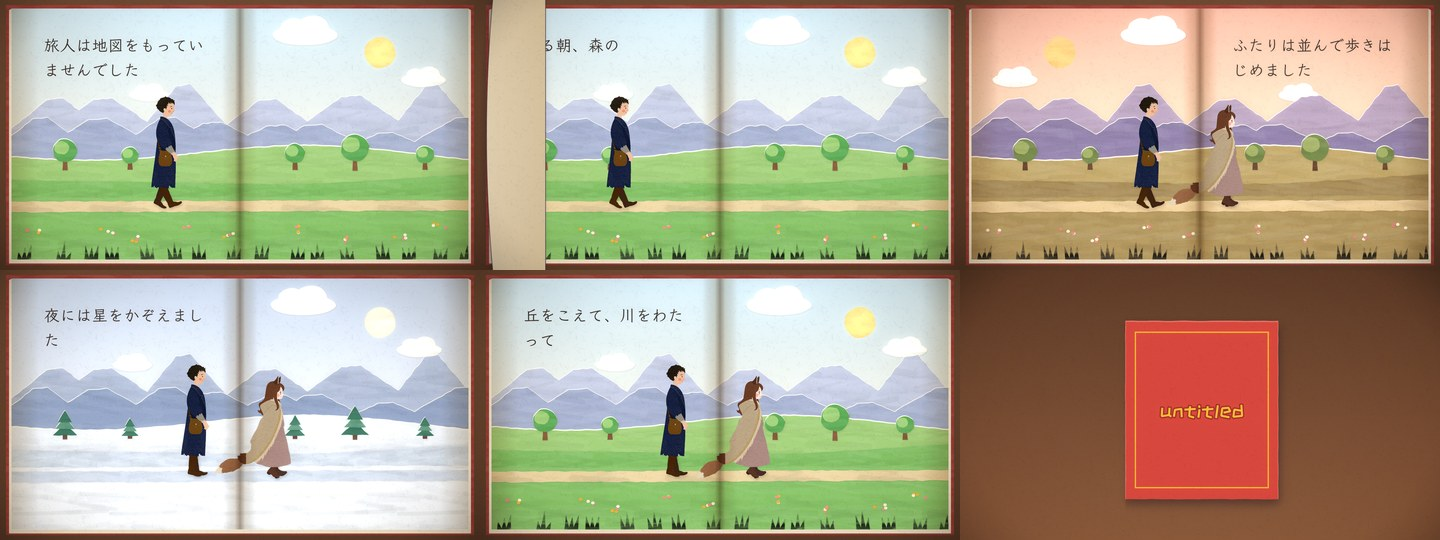
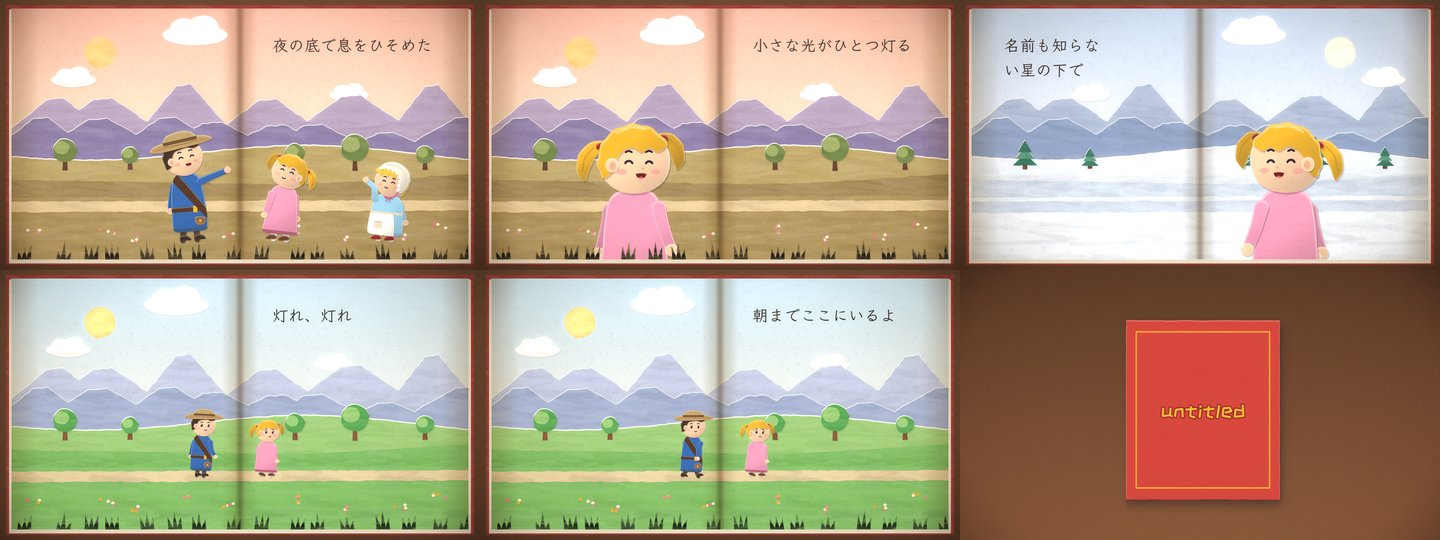
papercraft starter: folk-rig cast, shot size and action change line by line
The starter cast is the folk rig (PC.story.folk looks) instead of PC.doll
stand-ins, and its spreads rotate wide (walking), medium (the pair stop and act,
a townsperson steps in) and close (one face reacts), so a first cut no longer
teaches "two figures walking" for every line. look.jpg re-rendered from the demo
song; STYLE §1 example uses the folk-rig scale.

diff --git a/mv-studio/template/engine/starters/papercraft.js b/mv-studio/template/engine/starters/papercraft.js
@@ -4,9 +4,10 @@
  * spread, and the pages turn between spreads.
  *
  * This starter builds a plain first cut from the song's sections and lyric lines so a new project renders at once:
- * the book opens -> one spread per lyric line, a new land and a page turn per section, the travellers crossing left to
- * right -> the book closes. It is scaffolding: cut YOUR cast from generated reference sheets (tools/cut_puppet.py;
- * until then the roles draw as flat PC.doll stand-ins), and design the story's pages from your shot list.
+ * the book opens -> one spread per lyric line, a new land and a page turn per section, the shot size changing line by
+ * line (wide: the travellers walk; medium: they stop and act, a townsperson steps in; close: a face reacts) -> the
+ * book closes. It is scaffolding: give the roles YOUR looks (PC.story.folk, STYLE.md §2), and replace every spread with
+ * the concrete event its line names (a prop handed over, something appearing; BRIEF §1.7), from your shot list.
  * Lyric text never appears here: lines by index only.
  */
 (() => {
@@ -16,10 +17,13 @@
   Z.TITLE_SUB = '';
   Z.ARTIST = '';
   Z.CREDIT = '';
-  // the cast: roles cut into assets/cast/ by tools/cut_puppet.py; LOOK is the PC.doll stand-in until they are (REPLACE)
-  const LOOK = { hero: { hairStyle: 'mop', hair: '#4A3428', outfit: P.blue, seed: 3 }, companion: { hairStyle: 'braid', hair: P.gold, outfit: P.pink, seed: 5 } };
+  // the cast: the folk rig, one look per role (REPLACE with the film's own; s 1 ~ 186 px); extras are townsfolk variants
+  PC.story.folk.hero = { seed: 3, look: { H: 186, bw: 31, body: P.blue, sleeve: P.blue, trim: '#3f5f86', hair: 'short', hairC: '#4A3428',
+    hat: 'straw', hatC: '#c9a46a', hat2: '#7a5a3a', acc: ['belt', 'satchel'], bag: '#a8784a', strap: '#5a3d2b', legs: '#5a4636', shoes: '#4a3428', skin: 'light' } };
+  PC.story.folk.companion = { seed: 5, look: { H: 164, bw: 30, flare: 1.16, body: P.pink, sleeve: P.pink, trim: '#b8607a', hair: 'pigtails',
+    hairC: P.gold, lashes: true, legs: '#f2e8d8', shoes: '#7a4a32', skin: 'light' } };
   const LANDS = ['meadow', 'dusk', 'snow', 'meadow'];
-  const SC = 0.7, STRIDE = 127 * SC / 0.5, V = 110;              // puppet scale, px per walk cycle, walking speed px/s
+  const WIDE = 1.35, MED = 2.2, CLOSE = 4.2, MY = 960, CY = 1190, V = 110;  // shot sizes (cast s), feet y medium / close, walking px/s
 
   Z.setup = async (audio) => {
     const nb = t => audio.beats.reduce((b, x) => (Math.abs(x - t) < Math.abs(b - t) ? x : b), audio.beats[0] ?? t);
@@ -32,8 +36,17 @@
 
     const S = [], END = audio.music_cut || audio.duration, L = Z.LYR, beat = 60 / (audio.bpm || 120);
     const shot = (id, t0, t1, scene, args, extra = {}) => { if (t1 > t0 + 0.05) S.push(Object.assign({ id, t0, t1, scene, args, lyric: 'none', hud: false, post: PC.post }, extra)); };
-    // the travellers cross the spread at walking pace, centred on it; the first role leads on the left
-    const walkers = (who, t0, t1) => S => who.map((w, k) => { const x = 960 - V * (t1 - t0) / 2 - 150 + k * 320 + V * (S.t - t0); return { who: w, x, face: 1, walk: 1, phase: x / STRIDE, s: SC, look: LOOK[w] }; });
+    // wide: the travellers cross the spread at walking pace, centred on it (the rig plants the feet from x)
+    const walkers = (who, t0, t1) => S => who.map((w, k) => ({ who: w, x: 960 - V * (t1 - t0) / 2 - 150 + k * 260 + V * (S.t - t0), face: 1, walk: 1, s: WIDE }));
+    // medium: they stop and act; a townsperson steps in from the right halfway (REPLACE: the line's own exchange)
+    const meeting = (who, t0, t1, si) => S => {
+      const k = Math.min(1, Math.max(0, (S.t - (t0 + t1) / 2) / 0.8)), c = [{ who: who[0], x: 760, y: MY, s: MED, face: 1, pose: 'point', expr: k ? 'happy' : 'curious' }];
+      if (who[1]) c.push({ who: who[1], x: 1120, y: MY, s: MED * 0.95, face: -1, pose: 'lookUp', expr: 'smile' });
+      if (k > 0) c.push({ folk: { variant: si % 12, seed: 20 + si }, x: 2100 - 560 * k, y: MY, s: MED * 0.9, face: -1, walk: k < 1 ? 1 : 0, pose: k < 1 ? 'walk' : 'wave', expr: 'smile' });
+      return c;
+    };
+    // close: one face fills the page away from the text and reacts on the second half of the line (REPLACE)
+    const closeUp = (w, t0, t1, textAt) => S => [{ who: w, x: textAt === 'L' ? 1300 : 620, y: CY, s: CLOSE, face: textAt === 'L' ? -1 : 1, pose: 'idle', expr: S.t < (t0 + t1) / 2 ? 'calm' : 'happy' }];
     const first = secs.length ? secs[0].start : 0, l0 = L.length ? nb(L[0].t - 0.05) : END, o0 = Math.min(l0, first > 0.5 ? first : l0);
     const open = o0 < 1.5 ? 0 : o0;                                             // singing from the first second: no time to open the book, start inside it
 
@@ -48,9 +61,10 @@
       cuts.forEach((c0, j) => {
         // a section that starts mid-line carries the line still being sung, not the next one (sung from the next cut)
         const c1 = cuts[j + 1] ?? b, line = ls.find(l => Math.abs(nb(l.t - 0.05) - c0) < 0.01) || (j ? ls[j] : L.find(l => l.t < c0 && l.end > c0 + 0.1)), li = line ? line.i : null;
-        shot(`s${++k}`, c0, c1, 'pcStory', { land, line: li, textAt, cast: walkers(who, c0, c1) }, {
+        const size = (j + si) % 3, cast = size === 0 ? walkers(who, c0, c1) : size === 1 ? meeting(who, c0, c1, si) : closeUp(who[who.length - 1], c0, c1, textAt);
+        shot(`s${++k}`, c0, c1, 'pcStory', { land, line: li, textAt, cast }, {
           line: li ?? undefined, trans: { type: 'pageTurn', dur: (j ? 1 : 2) * beat },
-          moment: line ? `line ${line.i}: a page of the story in the ${land} (REPLACE: what happens on this page)` : `${sec.label || 'section'}: the ${land}`,
+          moment: line ? `line ${line.i}: ${['wide', 'medium', 'close'][size]} in the ${land} (REPLACE: the event this line names)` : `${sec.label || 'section'}: the ${land}`,
         });
       });
     });

diff --git a/mv-studio/styles/papercraft/STYLE.md b/mv-studio/styles/papercraft/STYLE.md
@@ -12,8 +12,8 @@ story are not ours: make your own film.
 ## 1. The spread: `pcStory`
 
 ```js
-const SC = 0.7, STRIDE = 127 * SC / 0.5;                         // puppet scale; px per walk cycle (feet do not slide)
-const walker = (who, x0, v, t0) => S => { const x = x0 + (S.t - t0) * v; return { who, x, face: 1, walk: 1, phase: x / STRIDE, s: SC }; };
+const WIDE = 1.35;                                               // folk-rig scale: s 1 ~ 186 px (§2)
+const walker = (who, x0, v, t0) => S => ({ who, x: x0 + (S.t - t0) * v, face: 1, walk: 1, s: WIDE });  // the rig plants the feet from x
 S.push({ id: 'v03', t0: B(6), t1: B(8), scene: 'pcStory', lyric: 'none', hud: false, line: 3, post: PC.post,
   trans: { type: 'pageTurn', dur: 2 * beat },
   moment: 'line 3: the two of them reach the market town',
@@ -74,7 +74,7 @@ ink line and pins of `PC.doll`; without it the doll is the flat stand-in.
 4. Until a role is cut, `pcStory` draws a flat `PC.doll` stand-in (`look`: its options), so the film renders from day one.
    A role in `PC.story.looks` is always drawn as the doll, cut or not.
 
-Keep scale consistent: the starter's `s: 0.7` puts a 640-px `tall` role at ~450 px on the page.
+Keep scale consistent: a doll or cut puppet at `s: 0.7` puts a 640-px `tall` role at ~450 px on the page.
 
 ## 3. Motion
 
